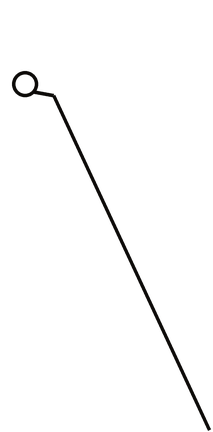
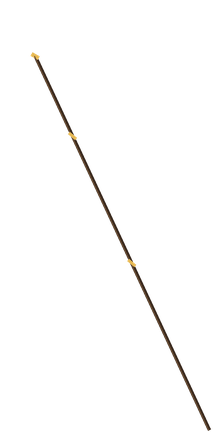
ネクロバインダー版の見た目のズレを直す：頭の炎を消す、杖頭を杖先の骨に追従、詠唱中の黒いフックを除去
- 頭の炎（シーンのSteppedFireMix_dark）と頭まわりの炎の部品を消した
- 杖頭はscythe_twistの骨を毎フレーム追う（Rider.Follow）
- scythe_glowの上書き絵をやめ、sythe_dissolveは輪のない杖に
- プローブ：シーンツリー・杖頭の変換・鎌のメッシュ変形をログへ
- scripts/ask-agy.ps1：Antigravity CLI経由でGeminiに画像・ログの一次チェックを頼む
- AGENTS.md：日本語の報告・文書はyomiyasuの方針で

Changed region(s): [[0.0563, 0.1204, 1.0, 1.0]]

diff --git a/src/Alchemy/NecroRig.cs b/src/Alchemy/NecroRig.cs
@@ -53,8 +53,9 @@ public static class NecroRig
         "belts" or "belt top" => Belt,
         "head" => Face,
         "back flame neck" => new(new Color("0c0b0e"), Gold),
-        "back_flame_temp" => new(new Color("1c1408"), new Color("6a4a18")),
         "scythe" or "scythe_glow" or "sythe_dissolve" => Clear,
+        // The fire about the skull (eyes, head glow, the tongues over it) goes with the head fire (2026-10-02).
+        _ when part.StartsWith("eye_") || part is "glow" or "glow_head" or "flame_extra" or "flames_placeholder" or "back_flame_temp" => Clear,
         "thumb1" or "thumb2" or "thumb3" or "wrist" or "webbing" => Brass,
         "shadow" => null,
         _ when part.StartsWith("death/") => part switch
@@ -177,17 +178,20 @@ public static class NecroRig
     /// Position and rotation are in the bone's own space; Scale is applied to the picture.
     /// OnlyWith: shown only while the slot shows that attachment (the staff head goes with the scythe part, which
     /// the animations swap out, e.g. while it dissolves on death).
-    public sealed record Rider(string Slot, string File, Vector2 Position, float Rotation, float Scale, string? OnlyWith = null);
+    /// Follow: a bone the picture keeps to, Position then being the offset from it in the slot bone's space (the
+    /// scythe's tip is skinned to scythe_twist, which the attack's spin moves along the staff; 2026-10-02).
+    public sealed record Rider(string Slot, string File, Vector2 Position, float Rotation, float Scale, string? OnlyWith = null, string? Follow = null);
     /// Trial placements (2026-10-01), measured with scripts/rig-probe.ps1 -Riders.
     public static readonly List<Rider> Riders =
     [
         new("head", "hood.png", new(15, -30), 90, 1.2f),
-        new("scythe", "staff_head.png", new(650, -90), 0, 1.3f, OnlyWith: "scythe"),
+        // Just past the staff's tip (scythe_twist, at x 709 y -4 of the slot bone), turned to face along the staff.
+        new("scythe", "staff_head.png", new(41, 4), 90, 1.3f, OnlyWith: "scythe", Follow: "scythe_twist"),
     ];
 
     private static void Attach(Node2D spine)
     {
-        var gated = new List<(Sprite2D Sprite, string Slot, string Attachment)>();
+        var gated = new List<(Sprite2D Sprite, Rider Rider)>();
         foreach (var rider in Riders.Where(r => Donor == RigDonor.Necrobinder))
         {
             string path = Path.Combine(RigArtDirectory, rider.File);
@@ -202,16 +206,25 @@ public static class NecroRig
             };
             slotNode.AddChild(sprite);
             spine.AddChild(slotNode);
-            if (rider.OnlyWith is { } attachment) gated.Add((sprite, rider.Slot, attachment));
+            if (rider.OnlyWith is not null || rider.Follow is not null) gated.Add((sprite, rider));
         }
         if (gated.Count == 0) return;
         spine.Connect("world_transforms_changed", Callable.From((Variant _) =>
         {
             if (spine.Call("get_skeleton").AsGodotObject() is not { } skeleton) return;
-            foreach (var (sprite, slot, attachment) in gated)
+            foreach (var (sprite, rider) in gated)
             {
-                var current = skeleton.Call("find_slot", slot).AsGodotObject()?.Call("get_attachment").AsGodotObject();
-                sprite.Visible = current?.Call("get_attachment_name").AsString() == attachment;
+                if (rider.OnlyWith is { } attachment)
+                {
+                    var current = skeleton.Call("find_slot", rider.Slot).AsGodotObject()?.Call("get_attachment").AsGodotObject();
+                    sprite.Visible = current?.Call("get_attachment_name").AsString() == attachment;
+                }
+                if (rider.Follow is { } boneName && skeleton.Call("find_bone", boneName).AsGodotObject() is { } bone
+                    && sprite.GetParent() is Node2D slotNode)
+                {
+                    var anchor = bone.Call("get_global_transform").AsTransform2D().Origin;
+                    sprite.GlobalPosition = anchor + slotNode.GlobalTransform.BasisXform(rider.Position);
+                }
             }
         }));
     }
@@ -320,11 +333,18 @@ public static class NecroRig
     }
 
     /// The head fire and the scythe/slash effects are blue and pink in the scene; they take the brass of the magic
-    /// circle (user, 2026-10-01).
+    /// circle (user, 2026-10-01). The fire over the head is the Necrobinder's own and not in the key visual: it goes
+    /// (2026-10-02). Hidden by alpha as well, in case the scene's flame script shows it again.
     private static void Flames(Node visuals)
     {
         foreach (var node in Descendants(visuals))
         {
+            if (node is Sprite2D fire && fire.Name == "SteppedFireMix_dark")
+            {
+                fire.Visible = false;
+                fire.SelfModulate = new Color(1, 1, 1, 0);
+                continue;
+            }
             if (node is CanvasItem { Material: ShaderMaterial material } item && node.Name != "Visuals")
             {
                 item.Material = Brassy(material);

diff --git a/tests/Alchemy.RigProbe/Probe.cs b/tests/Alchemy.RigProbe/Probe.cs
@@ -88,6 +88,7 @@ public static class RigProbe
             else if (mode == "alchemist")
             {
                 visuals.Scale = Vector2.One * 1.25f;
+                DumpTree(visuals, 0);
                 await Capture(tree, viewport, body, "alchemist", ["idle_loop", "attack", "hurt", Alchemy.NecroRig.CastAnimation, "die"]);
             }
             else if (mode == "uvmap")
@@ -190,6 +191,28 @@ public static class RigProbe
         Log("uv map saved");
     }
 
+    /// The scene under the visuals: class, name, the slot or bone a Spine node follows, texture and shader parameters.
+    private static void DumpTree(Node node, int depth)
+    {
+        var line = $"tree {new string(' ', depth * 2)}{node.GetClass()} {node.Name}";
+        foreach (var prop in new[] { "slot_name", "bone_name" })
+            if (node.Get(prop).VariantType == Variant.Type.String) line += $" {prop}={node.Get(prop)}";
+        if (node is CanvasItem item)
+        {
+            line += $" visible={item.Visible} modulate={item.Modulate}";
+            if (item.Material is ShaderMaterial sm)
+                line += $" shader={sm.Shader?.ResourcePath} params=" + string.Join("|",
+                    RenderingServer.GetShaderParameterList(sm.Shader!.GetRid()).Select(p => (string)p["name"]).Select(n => $"{n}:{sm.GetShaderParameter(n)}"));
+        }
+        if (node.Get("texture").AsGodotObject() is Texture2D tex) line += $" texture={tex.ResourcePath}";
+        if (node.GetClass() == "SpineSlotNode" && node.Get("normal_material").AsGodotObject() is ShaderMaterial nm)
+            line += $" normal_material={nm.Shader?.ResourcePath} params=" + string.Join("|",
+                RenderingServer.GetShaderParameterList(nm.Shader!.GetRid()).Select(p => (string)p["name"]).Select(n => $"{n}:{nm.GetShaderParameter(n)}"));
+        if (node is GpuParticles2D p) line += $" particles texture={p.Texture?.ResourcePath}";
+        Log(line);
+        foreach (var child in node.GetChildren()) DumpTree(child, depth + 1);
+    }
+
     private static async Task Capture(SceneTree tree, SubViewport viewport, MegaSprite body, string tag, string[] animations)
     {
         for (int i = 0; i < 120 && body.TryGetAnimationState() is null; i++) await Frames(tree, 1);
@@ -200,6 +223,16 @@ public static class RigProbe
             {
                 await Frames(tree, 8);
                 viewport.GetTexture().GetImage().SavePng($"{Out}/{tag}_{name}_{f}.png");
+                // Where the riders' slot nodes are on the frame, to place pictures by frame pixels.
+                foreach (var rider in viewport.FindChildren("Alchemist_*", owned: false).OfType<Node2D>())
+                    Log($"rider {name}_{f} {rider.Name} transform={rider.GetGlobalTransform()}");
+                // The scythe part's mesh deform (the spin is drawn by deforming it, not by its bone).
+                if (body.BoundObject.Call("get_skeleton").AsGodotObject()?.Call("find_slot", "scythe").AsGodotObject() is { } slot)
+                {
+                    var deform = slot.Call("get_deform").AsFloat32Array();
+                    string range = deform.Length < 2 ? "" : $" x {Enumerable.Range(0, deform.Length / 2).Min(i => deform[2 * i]):0}..{Enumerable.Range(0, deform.Length / 2).Max(i => deform[2 * i]):0} y {Enumerable.Range(0, deform.Length / 2).Min(i => deform[2 * i + 1]):0}..{Enumerable.Range(0, deform.Length / 2).Max(i => deform[2 * i + 1]):0}";
+                    Log($"deform {name}_{f} n={deform.Length}{range} attachment={slot.Call("get_attachment").AsGodotObject()?.Call("get_attachment_name")}");
+                }
             }
             Log($"captured {tag} {name}");
         }

diff --git a/scripts/rig-art.py b/scripts/rig-art.py
@@ -68,8 +68,10 @@ def staff(name, size, x0, y0, slope, ring_at, ring, bottom_y, dark=False, head=T
 
 
 staff("scythe", (215, 434), 67, 120, 0.4661, (25, 84), 13, 432, head=False)
-staff("sythe_dissolve", (213, 432), 65, 120, 0.466, (25, 84), 13, 430, dark=True)
-staff("scythe_glow", (120, 229), 64.5, 120, 0.475, (14, 45), 7, 228, dark=True)
+# The dissolving scythe (death) is the plain staff too; the big ring rides on the bone only with "scythe" (2026-10-02).
+staff("sythe_dissolve", (213, 432), 65, 120, 0.466, (25, 84), 13, 430, head=False)
+# scythe_glow (the glowing copy in the big cast) has no drawing: the part is dropped, the cast's sparks stay.
+(OUT / "scythe_glow.png").unlink(missing_ok=True)
 
 def sigil(name, size, centre, radius):
     """The gold alchemical sigil of the key visual (circle, triangle, dot, short rays) for the dark hood face."""

diff --git a/docs/session-log.md b/docs/session-log.md
@@ -4,6 +4,28 @@
 
 ---
 
+## 2026-10-02 セッション9（ネクロバインダー版の見た目のズレを直す）— 次のセッションはここから
+
+### 今の状態
+- 未コミット：`NecroRig.cs`・`scripts/rig-art.py`・`assets/art/character/rig/necrobinder/`（scythe_glow.png削除、sythe_dissolve.png）・`tests/Alchemy.RigProbe/Probe.cs`・`AGENTS.md`（yomiyasuの1行）。
+- ルールテスト・スモーク405件PASS。ゲームへ反映済み（旧版`artifacts/backups/20261002-001658-419`）。
+- yomiyasuスキルはプラグイン版だけ残した（`skills/`・`.agents/`・`.claude/skills`・`skills-lock.json`は削除）。
+
+### このセッションでやったこと（ユーザー選択：「見た目のズレを直す」）
+1. 頭の炎を消した：シーンの`HeadBoneNode/SteppedFireMix_dark`（シェーダーの炎、アトラスの部品ではない）を非表示。頭まわりの炎の部品（eye_*・glow・glow_head・flame_extra・flames_placeholder・back_flame_temp）も消した。死亡時に頭の上に出ていた金色の棘も消えた。
+2. 杖頭：杖の先は骨`scythe_twist`（scythe_slideの子、x 709）に付いている。杖頭の絵はこの骨を毎フレーム追う（`Rider.Follow`）。待機中に杖から浮いていた件と、攻撃の回転中に離れる件の両方が直った。
+3. 詠唱中に出ていた黒いフックの杖（`scythe_glow`の上に描いた暗い杖）をやめ、部品ごと消した。消滅用の`sythe_dissolve`は輪のない普通の杖に。
+4. 攻撃の斬撃が灰色の斑点に見えるのはバニラも同じ（元のネクロバインダーでも暗い残像）。手は付けていない。
+5. 指の骨を太くする案は、描画しても違いが見えなかったので戻した。開いた左手は1枚の部品。
+6. プローブ：`-Mode alchemist`でシーンツリー（`tree`）、杖頭の変換（`rider`）、鎌のメッシュ変形（`deform`）をログに出す。
+
+### 次にやること・返答待ち
+1. **ユーザーが実際の戦闘画面で確認**。確認用：`artifacts/rig-probe/necro-v3-sheet.png`。
+2. 残り：裸足に見える足（足先の指の形が残る。ブーツの絵を載せる案）、死亡時にフードが傾いて体に残る、胸のあばら骨の形。
+3. 休憩所・商人・キャラ選択も同じ方法で。ゴーレムの骨格。声・動作音（返答待ち）。
+
+---
+
 ## 2026-10-01 セッション8（モーション：ネクロバインダーの骨格の転用）— 次のセッションはここから
 
 ### 今の状態

diff --git a/AGENTS.md b/AGENTS.md
@@ -334,3 +334,5 @@ StS1向けのクラス名、パッチ方式、ライブラリをStS2へそのま
 - `README.md`：ユーザーがMODをビルド・導入・起動する手順。
 
 各作業の報告には「何が動くようになったか」「何を検証したか」「残る制限・未決事項」を簡潔に記載する。ゲームループを遊べる状態にすることを優先し、仮値や未検証の互換性を確定事項に見せない。
+
+日本語の作業報告・ドキュメントは、yomiyasuスキル（プラグイン`yomiyasu@yomiyasu`）の方針で書く。ゲーム内のカード名・説明文は数値やキーワードと結びつくため対象外。
